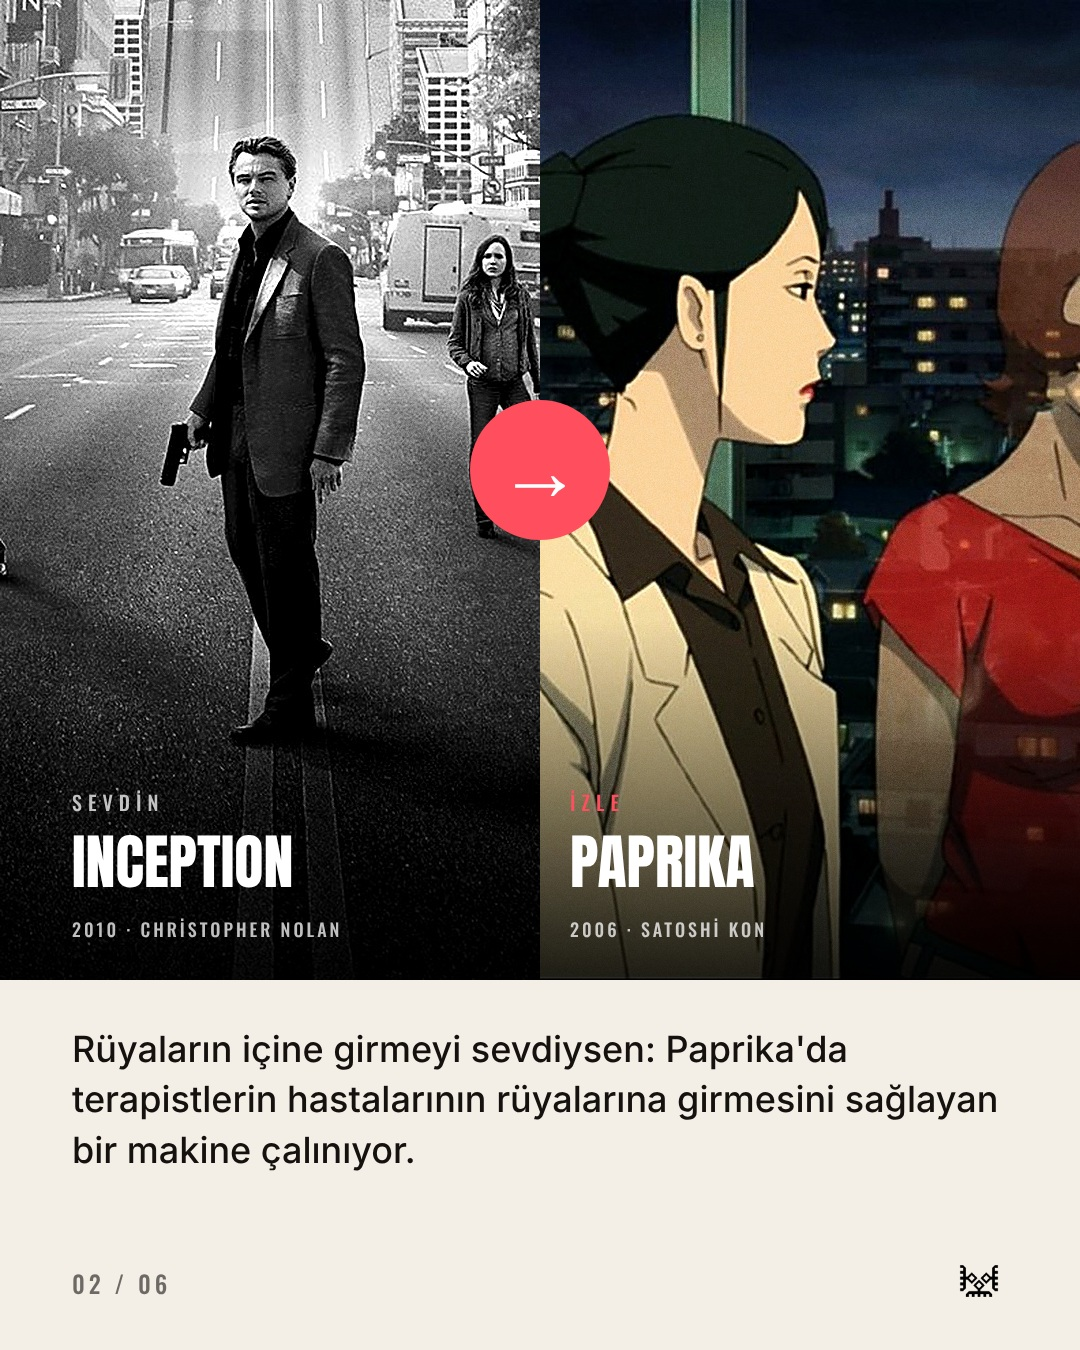
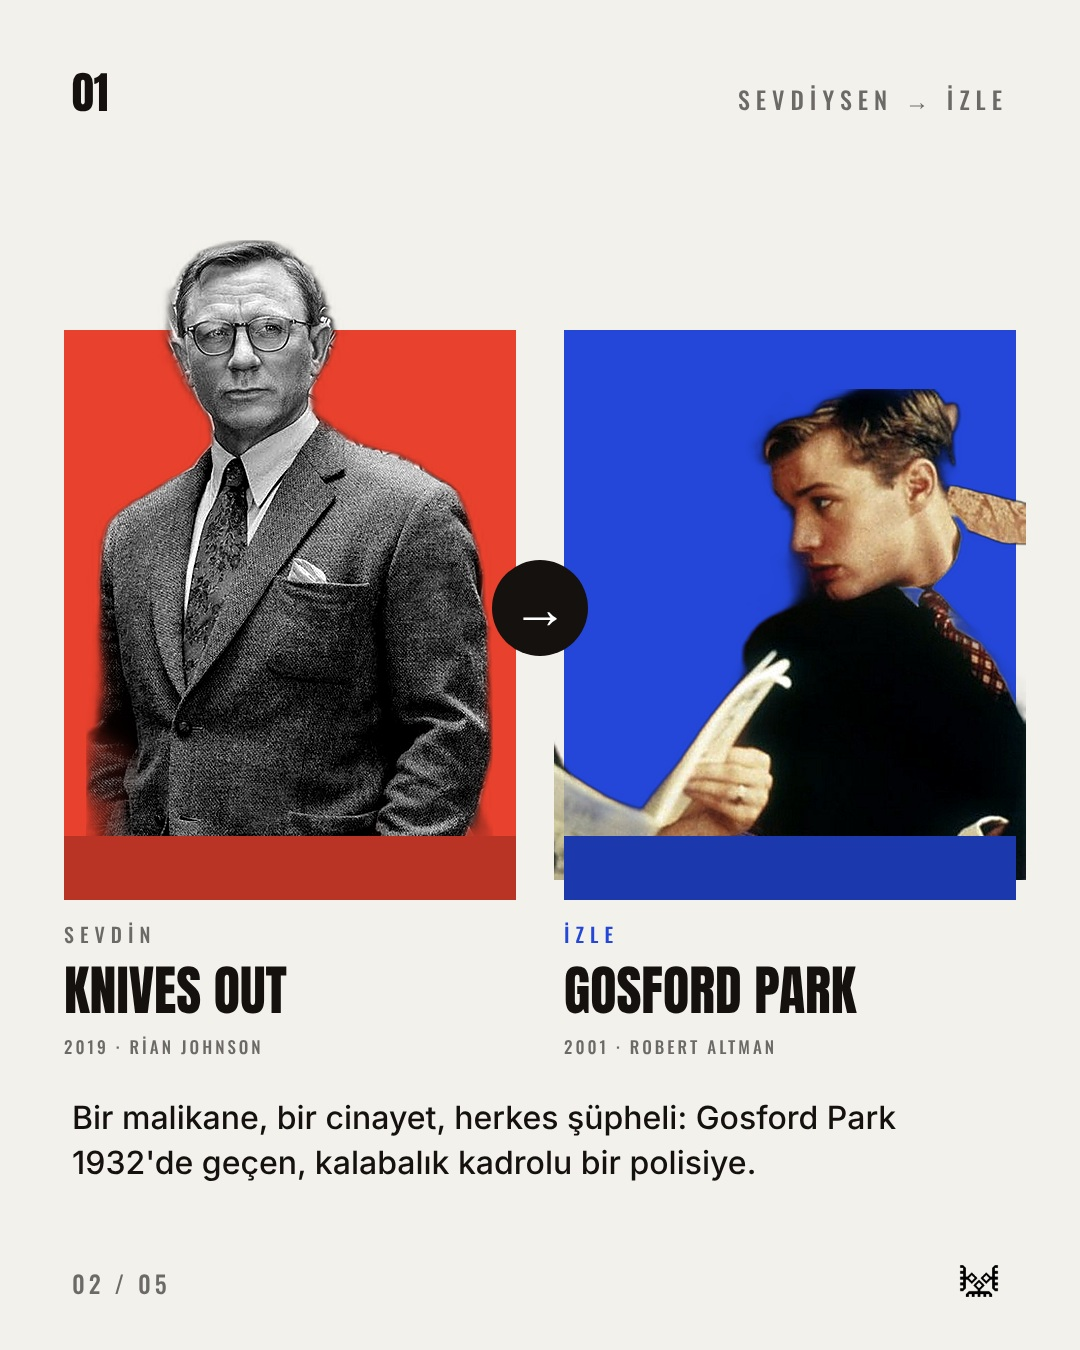
Eşleştirme ve battaniye gönderileri: kesilmiş figürlü yeni tasarım, vibe başlıklar
Claude-Session: https://claude.ai/code/session_013RjhQCyUYfSSutarfaCBa7

diff --git a/tools/week2/p04.py b/tools/week2/p04.py
@@ -1,75 +1,82 @@
 from pro import *
+import cut
 
 ID = "2026-11-01_eslestirme_bunu-sevdiysen"
-TH = theme("#f4efe6", "#14110f", "#ff4f5e", on_acc="#fff", head="anton")
+CRM, INK = "#f3f1ec", "#14110f"
+TH = theme(CRM, INK, "#ff4f5e", on_acc="#fff", head="anton")
 
-CAPTION = """Bunu sevdiysen şunu izle: aynı tadı veren 4 film çifti.
+CAPTION = """Film bitti, boşluk kaldı. Sevdiğin filmin ardından açabileceğin 3 yeni kapı.
 
-Inception'ı sevdiysen Paprika'ya, Forrest Gump'ı sevdiysen Big Fish'e, Knives Out'u sevdiysen Gosford Park'a, Parasite'i sevdiysen Shoplifters'a bak. Son çiftin ikisi de Cannes'da Altın Palmiye aldı: Shoplifters 2018'de, Parasite 2019'da.
+Knives Out'u sevdiysen Gosford Park'a, Parasite'i sevdiysen Shoplifters'a, La La Land'i sevdiysen Whiplash'e bak. Parasite ile Shoplifters Cannes'da Altın Palmiye aldı (Shoplifters 2018'de, Parasite 2019'da); La La Land ile Whiplash'in yönetmeni aynı: Damien Chazelle.
 
 Sen hangi eşleşmeyi eklerdin? "X sevdiysen Y" diye yorumlara yaz.
 
 Yarın 13:00'te: Kasım ayında sinemaya gelecek 5 film."""
 
-
 PAIRS = [
-    # A: başlık, meta, slayt karesi, kapak karesi | B: ... | sebep, etiket
-    (("INCEPTION", "2010 · Christopher Nolan", S("inception", 2), S("inception", 1)),
-     ("PAPRIKA", "2006 · Satoshi Kon", S("paprika", 2), S("paprika", 1)),
-     "Rüyaların içine girmeyi sevdiysen: Paprika'da terapistlerin hastalarının rüyalarına girmesini sağlayan bir makine çalınıyor.", "#ffd9c7"),
-    (("FORREST GUMP", "1994 · Robert Zemeckis", S("forrestgump", 3), S("forrestgump", 1)),
-     ("BIG FISH", "2003 · Tim Burton", S("bigfish", 3), S("bigfish", 1)),
-     "Hayatı masal gibi anlatan adamları sevdiysen: Big Fish'te ölüm döşeğindeki babanın hikâyelerinin ardındaki gerçeği arayan bir oğul var.", "#cfe8ff"),
-    (("KNIVES OUT", "2019 · Rian Johnson", S("knivesout", 1), S("knivesout", 2)),
-     ("GOSFORD PARK", "2001 · Robert Altman", S("gosford", 3), S("gosford", 2)),
-     "Bir malikane, bir cinayet, herkes şüpheli: Gosford Park 1932'de geçen, kalabalık kadrolu bir polisiye.", "#e5d6ff"),
-    (("PARASITE", "2019 · Bong Joon-ho", S("parasite", 2), S("parasite", 1)),
-     ("SHOPLIFTERS", "2018 · Hirokazu Kore-eda", S("shoplifters", 2), S("shoplifters", 1)),
-     "Sınıf farkını incelikle anlatan iki film: ikisi de Cannes'da Altın Palmiye aldı. Shoplifters, geçimini hırsızlıkla sağlayan bir ailenin hikâyesi.", "#cdf5dc"),
+    # A: (ad, başlık, meta, kesit)  B: ...   renk1, renk2, sebep
+    (("KNIVES OUT", "2019 · Rian Johnson", "knivesout_2"), ("GOSFORD PARK", "2001 · Robert Altman", "gosford_2"), "#e8412e", "#2447d9",
+     "Bir malikane, bir cinayet, herkes şüpheli: Gosford Park 1932'de geçen, kalabalık kadrolu bir polisiye."),
+    (("PARASITE", "2019 · Bong Joon-ho", "parasite_2"), ("SHOPLIFTERS", "2018 · Hirokazu Kore-eda", "shoplifters_3"), "#ffc933", "#0f8f6a",
+     "Sınıf farkını incelikle anlatan iki film: ikisi de Cannes'da Altın Palmiye aldı. Shoplifters, geçimini hırsızlıkla sağlayan bir ailenin hikâyesi."),
+    (("LA LA LAND", "2016 · Damien Chazelle", "lalaland_2"), ("WHIPLASH", "2014 · Damien Chazelle", "whiplash_3"), "#7a4dff", "#ff7aa8",
+     "İkisi de Damien Chazelle filmi: La La Land'in büyülü müziğinin ardından Whiplash, tutkunun bedelini bir davulcu üzerinden anlatıyor."),
 ]
 
 
+def dark(c, f=0.8):
+    c = c.lstrip("#")
+    return "#" + "".join(f"{int(int(c[k:k + 2], 16) * f):02x}" for k in (0, 2, 4))
 
 
+def wall(x, y, w, h, c):
+    return box(x, y, w, h, dark(c), z=6)
 
 
-def half(src, x, w, h, gray):
-    return img(prep(src, size=(w, h), gray=gray, contrast=1.1, sat=(1.0 if gray else 1.12), grain=8), x, 0, w, h, z=1)
+PART = {"gosford_2": (0.46, 1.0), "whiplash_3": (0.24, 0.80)}
 
 
-def split_pair(i, n):
-    a, b, why, _ = PAIRS[i]
-    ph = 980
-    return {"bg": TH["bg"], "els": [
-        half(a[2], 0, 540, ph, True), half(b[2], 540, 540, ph, False),
-        box(0, ph - 360, W, 360, "linear-gradient(180deg,rgba(0,0,0,0),rgba(0,0,0,.82))", z=2),
-        T("SEVDİN", M, ph - 190, 300, 28, 20, "oswald", "#fff", fit=False, weight=500, ls=6, op=0.75),
-        T(a[0], M, ph - 150, 440, 80, 60, "anton", "#fff", nowrap=True, mn=28, lh=1.05),
-        T(a[1], M, ph - 62, 440, 30, 18, "oswald", "#fff", weight=500, ls=3, upper=True, nowrap=True, mn=12, op=0.75),
-        T("İZLE", 570, ph - 190, 300, 28, 20, "oswald", TH["accent"], fit=False, weight=500, ls=6),
-        T(b[0], 570, ph - 150, 440, 80, 60, "anton", "#fff", nowrap=True, mn=28, lh=1.05),
-        T(b[1], 570, ph - 62, 440, 30, 18, "oswald", "#fff", weight=500, ls=3, upper=True, nowrap=True, mn=12, op=0.75),
-        box(W // 2 - 70, 400, 140, 140, TH["accent"], z=5, radius=300),
-        T("→", W // 2 - 70, 400, 140, 140, 84, "inter", "#fff", fit=False, weight=700, align="center", flex="center", lh=1.0, bleed=True, z=6),
-        T(why, M, ph + 44, W - 2 * M, 230, 36, "inter", TH["ink"], weight=500, lh=1.4, mn=26),
+def fig(name, bx, bw, bottom, max_h, gray, z, max_w=None):
+    p, w, h = cut.figure(name, max_w or bw + 40, max_h, gray=gray, contrast=(1.12 if gray else 1.04), sat=1.06, part=PART.get(name))
+    return img(p, bx + (bw - w) // 2, bottom - h, w, h, z=z, fit="contain")
+
+
+def pair_slide_n(i, n):
+    a, b, c1, c2, why = PAIRS[i]
+    by, bh, bw = 330, 570, 452
+    bx1, bx2 = 64, 564
+    return {"bg": CRM, "els": [
+        T(f"{i+1:02d}", M, 70, 200, 60, 44, "anton", INK, fit=False, lh=1.0, nowrap=True),
+        T("SEVDİYSEN → İZLE", W - M - 500, 84, 500, 34, 24, "oswald", INK, fit=False, weight=500, ls=6, align="right", nowrap=True, op=0.6),
+        box(bx1, by, bw, bh, c1, z=2), box(bx2, by, bw, bh, c2, z=2),
+        fig(a[2], bx1, bw, 880, 640, True, 4, max_w=bw + 20), fig(b[2], bx2, bw, 880, 640, False, 4, max_w=bw + 20),
+        wall(bx1, 836, bw, 64, c1), wall(bx2, 836, bw, 64, c2),
+        box(W // 2 - 48, 560, 96, 96, INK, z=9, radius=300),
+        T("→", W // 2 - 48, 560, 96, 96, 56, "inter", "#fff", fit=False, weight=700, align="center", flex="center", lh=1.0, bleed=True, z=10),
+        T("SEVDİN", bx1, 922, 300, 26, 20, "oswald", INK, fit=False, weight=500, ls=6, op=0.6),
+        T(a[0], bx1, 962, bw, 70, 54, "anton", INK, nowrap=True, mn=26, lh=1.05),
+        T(a[1], bx1, 1036, bw, 28, 17, "oswald", INK, weight=500, ls=3, upper=True, nowrap=True, mn=12, op=0.6),
+        T("İZLE", bx2, 922, 300, 26, 20, "oswald", c2 if c2 != "#ffc933" else INK, fit=False, weight=500, ls=6),
+        T(b[0], bx2, 962, bw, 70, 54, "anton", INK, nowrap=True, mn=26, lh=1.05),
+        T(b[1], bx2, 1036, bw, 28, 17, "oswald", INK, weight=500, ls=3, upper=True, nowrap=True, mn=12, op=0.6),
+        T(why, M, 1096, W - 2 * M, 140, 32, "inter", INK, weight=500, lh=1.4, mn=22),
         *footer(TH, i + 2, n),
     ]}
 
 
 def build():
-    n = 6
-    els = []
-    for k, p in enumerate(PAIRS):
-        y = k * 337
-        els.append(img(prep(p[0][3], size=(540, 337), gray=True, contrast=1.1, grain=8), 0, y, 540, 338, z=1))
-        els.append(img(prep(p[1][3], size=(540, 337), contrast=1.05, sat=1.12, grain=8), 540, y, 540, 338, z=1))
-    els += [
-        box(60, 470, 960, 410, TH["accent"], z=4),
-        T("BUNU SEVDİYSEN,<br>BUNU İZLE", 100, 500, 880, 250, 130, "anton", "#fff", nowrap=True, mn=60, lh=1.08, align="center", z=5),
-        T("SOLDAKİ SEVDİĞİN, SAĞDAKİ İZLEYECEĞİN FİLM", 100, 790, 880, 36, 22, "oswald", "#fff", weight=500, ls=4, align="center", nowrap=True, mn=14, z=5, op=0.9),
-        logo("white", W - M - 58, 64, 58, z=9),
+    n = 5
+    els = [
+        *kicker(TH, "3 eşleşme", M, 70),
+        T("FİLM BİTTİ,<br>BOŞLUK KALDI", M, 140, W - 2 * M, 340, 170, "anton", INK, nowrap=True, mn=70, lh=1.08),
     ]
-    cover = {"bg": TH["bg"], "els": els}
-    slides = [cover] + [split_pair(i, n) for i in range(4)]
+    bw, by, bh = 300, 560, 540
+    for k, p in enumerate(PAIRS):
+        bx = M + k * (bw + 18)
+        els += [box(bx, by, bw, bh, p[3], z=2), fig(p[0][2], bx, bw, 1070, 640, False, 4, max_w=bw + 20), wall(bx, 1030, bw, 70, p[3])]
+    els += [T("Sevdiğin filmin ardından açılacak 3 yeni kapı.", M, 1150, W - 2 * M - 80, 40, 30, "inter", INK, weight=500, nowrap=True, mn=20, op=0.8),
+            T("Kaydet · Sırayla izle", M, 1206, 500, 30, 22, "oswald", INK, fit=False, weight=500, ls=5, upper=True, nowrap=True, op=0.55),
+            logo("black", W - M - 58, 1252, 58, z=9)]
+    slides = [{"bg": CRM, "els": els}] + [pair_slide_n(i, n) for i in range(3)]
     slides.append(cta_slide(TH, "SEN HANGİ<br>EŞLEŞMEYİ<br>EKLERDİN?", "\"X sevdiysen Y izle\" diye yorumlara yaz.", "Kaydet · Arkadaşına gönder"))
     return {"id": ID, "caption": CAPTION, "slides": slides}

diff --git a/tools/week2/p09.py b/tools/week2/p09.py
@@ -1,9 +1,11 @@
 from pro import *
+import cut
 
 ID = "2026-11-04_liste_battaniye-filmleri"
-TH = theme("#fbeee0", "#3b2418", "#c4552d", on_acc="#fbeee0", head="serif", upper=False, acc_logo="white")
+TERRA, CREAM, GOLD = "#b04a2b", "#fbeee0", "#f2c46d"
+TH = theme(TERRA, CREAM, GOLD, on_acc=TERRA, head="serif", upper=False, logo_light="white")
 
-CAPTION = """Kasım akşamlarına battaniye gibi gelen 4 film. Gürültü yok, yıkım yok; sadece çayın yanına yakışan sıcacık hikâyeler.
+CAPTION = """Dışarısı Kasım, içerisi sinema. Battaniyeye sarılıp çayı demleyince açılacak 4 film: gürültü yok, yıkım yok, sadece sıcacık hikâyeler.
 
 About Time (2013) ailesindeki erkeklerin zamanda geriye gidebildiğini öğrenen bir gencin aşk ve aile hikâyesini, Paddington 2 (2017) hapse düşen sevimli ayının macerasını, Chef (2014) işinden ayrılıp yemek kamyonuyla yola çıkan bir şefi, Little Women (2019) March kardeşlerin büyüme hikâyesini anlatıyor. Little Women, En İyi Kostüm Tasarımı dalında Oscar aldı.
 
@@ -11,58 +13,48 @@ Bu akşam hangisini açıyorsun?
 
 Yarın 18:00'de: Tek odada geçen ama nefesini kesen 5 film."""
 
+
 FILMS = [
-    ("About Time", "2013 · Richard Curtis", "Ailesindeki erkeklerin zamanda geriye gidebildiğini öğrenen genç bir adam, bu gücü aşk için kullanır. Domhnall Gleeson ve Rachel McAdams oynuyor.", S("abouttime", 1), S("abouttime", 4), "Çay hazırla"),
-    ("Paddington 2", "2017 · Paul King", "Peru'dan gelen ayı Paddington, bir hırsızlık suçlamasıyla hapse düşer. Hugh Grant'in canlandırdığı kötü adam filme ayrı bir keyif katar.", S("paddington2", 1), S("paddington2", 2), "Aileyle izle"),
-    ("Chef", "2014 · Jon Favreau", "İşinden ayrılan şef, bir yemek kamyonuyla ülkeyi dolaşarak yemek yapma sevgisini yeniden bulur.", S("chef", 1), S("chef", 3), "Aç gitme"),
-    ("Little Women", "2019 · Greta Gerwig", "March kardeşlerin büyüme hikâyesi. Saoirse Ronan, Florence Pugh, Emma Watson ve Eliza Scanlen oynuyor; Oscar'ı En İyi Kostüm Tasarımı dalında aldı.", S("littlewomen", 1), S("littlewomen", 2), "Battaniyeye sarıl"),
+    ("About Time", "2013 · Richard Curtis", "Ailesindeki erkeklerin zamanda geriye gidebildiğini öğrenen genç bir adam, bu gücü aşk için kullanır. Domhnall Gleeson ve Rachel McAdams oynuyor.", "abouttime_1"),
+    ("Paddington 2", "2017 · Paul King", "Peru'dan gelen ayı Paddington, bir hırsızlık suçlamasıyla hapse düşer. Hugh Grant'in canlandırdığı kötü adam filme ayrı bir keyif katar.", "paddington2_2"),
+    ("Chef", "2014 · Jon Favreau", "İşinden ayrılan şef, bir yemek kamyonuyla ülkeyi dolaşarak yemek yapma sevgisini yeniden bulur.", "chef_3"),
+    ("Little Women", "2019 · Greta Gerwig", "March kardeşlerin büyüme hikâyesi. Saoirse Ronan, Florence Pugh, Emma Watson ve Eliza Scanlen oynuyor; Oscar'ı En İyi Kostüm Tasarımı dalında aldı.", "littlewomen_1"),
 ]
 
 
+def framed(name, fx, fy, fw, fh, ext=0.14):
+    d = cut.pop_frame(name, fw, fh, ext=ext)
+    return [box(fx - 16, fy - 16, fw + 32, fh + 32, "transparent", z=2, border=f"4px solid {GOLD}"),
+            img(d["frame"], fx, fy, fw, fh, z=3),
+            img(d["pop"], fx, fy - d["pop_dy"], fw, d["pop_h"], z=5, fit="contain")]
 
 
-TIMES = [("18:30", "Çay vakti"), ("20:00", "Aile saati"), ("21:30", "Akşam yemeği"), ("23:00", "Battaniye saati")]
-
-
-def warm(src, crop=(0, 0, 1, 1)):
-    return [img(grade(src, (1080, 1350), crop, grain=8), 0, 0, W, H, z=1),
-            box(0, 0, W, H, "rgba(255,150,60,.20)", z=2, blend="multiply"),
-            box(0, 0, W, H, "linear-gradient(180deg,rgba(40,16,4,.35),rgba(40,16,4,0) 35%)", z=2)]
-
-
-def eve_film(i, n):
-    title, meta, body, src, _, tag = FILMS[i]
-    t, lab = TIMES[i]
-    return {"bg": "#2a1208", "els": [
-        *warm(src),
-        T(t, M, 70, 600, 240, 210, "serif", "#fff", fit=False, lh=1.0, bleed=True, nowrap=True),
-        T(lab.upper(), M + 6, 318, 600, 34, 26, "oswald", "#fff", fit=False, weight=500, ls=8, nowrap=True),
-        logo("white", W - M - 58, 64, 58, z=9),
-        box(56, 810, 968, 430, "#fbeee0", z=4, radius=26),
-        T(title, 96, 846, 888, 100, 80, "serif", TH["ink"], nowrap=True, mn=40, lh=1.05),
-        T(meta, 96, 958, 888, 32, 24, "oswald", TH["accent"], weight=500, ls=4, upper=True, nowrap=True, mn=16),
-        T(body, 96, 1010, 888, 190, 34, "inter", TH["ink"], weight=500, lh=1.4, mn=24),
-        T(f"{i+1:02d} / 04", 96, 1272, 200, 30, 22, "oswald", "#fff", fit=False, weight=500, ls=4, op=0.8),
+def cozy_film(i, n):
+    title, meta, body, src = FILMS[i]
+    return {"bg": TERRA, "els": [
+        T(f"<i>{i+1}. {title}</i>", M, 96, W - 2 * M, 150, 104, "playfair", CREAM, weight=700, nowrap=True, mn=50, lh=1.1, align="center"),
+        *framed(src, 130, 350, 820, 540),
+        T(body, 130, 950, 820, 190, 36, "playfair", CREAM, weight=400, lh=1.45, mn=26, align="center"),
+        T(meta, 130, 1170, 820, 34, 24, "oswald", GOLD, weight=500, ls=5, upper=True, nowrap=True, mn=16, align="center"),
+        T(f"{i+1:02d} / 06", M, 1268, 260, 34, 24, "oswald", CREAM, fit=False, weight=500, ls=4, op=0.7),
+        logo("white", W - M - 58, 1252, 58, z=9),
     ]}
 
 
 def build():
     n = 6
-    cover = {"bg": "#2a1208", "els": [
-        *warm(FILMS[3][4]),
-        T("KASIM AKŞAMI PROGRAMI", M, 76, 800, 36, 26, "oswald", "#fff", fit=False, weight=500, ls=8, nowrap=True),
-        logo("white", W - M - 58, 64, 58, z=9),
-        box(56, 560, 968, 690, "#fbeee0", z=4, radius=26),
-        T("Kasım akşamlarına<br>battaniye gibi<br>gelen 4 film", 96, 596, 888, 280, 84, "serif", TH["ink"], nowrap=True, mn=44, lh=1.1),
+    cover = {"bg": TERRA, "els": [
+        *kicker(TH, "4 film · battaniye, çay, huzur", M, 70, color=GOLD, w=900),
+        T("<i>Dışarısı Kasım,<br>içerisi sinema</i>", M, 130, W - 2 * M, 330, 118, "playfair", CREAM, weight=700, nowrap=True, mn=54, lh=1.12),
+        *framed("littlewomen_2", 130, 560, 820, 520, ext=0.12),
+        T("Battaniyeye sarıl, çayı demle, birini aç.", M, 1150, W - 2 * M - 80, 40, 30, "playfair", CREAM, nowrap=True, mn=20, align="left"),
+        logo("white", W - M - 58, 1252, 58, z=9),
     ]}
-    rows = []
-    y = 930
-    for (t, lab), f in zip(TIMES, FILMS):
-        rows += [rule(96, y, 888, TH["ink"], op=0.15), T(t, 96, y + 12, 120, 40, 30, "oswald", TH["accent_txt"], fit=False, weight=500, ls=2, nowrap=True),
-                 T(f[0], 230, y + 8, 520, 44, 32, "inter", TH["ink"], weight=600, nowrap=True, mn=18),
-                 T(lab.upper(), 700, y + 16, 284, 30, 20, "oswald", TH["ink"], weight=500, ls=3, nowrap=True, align="right", mn=12, op=0.55)]
-        y += 70
-    cover["els"] += rows
-    slides = [cover] + [eve_film(i, n) for i in range(4)]
-    slides.append(cta_slide(TH, "Bu akşam<br>hangisini<br>açıyorsun?", "Yorumlara yaz, çayını da söyle.", "Kaydet · Sıcak tut"))
-    return {"id": ID, "caption": CAPTION, "slides": slides}
+    cta = {"bg": CREAM, "els": [
+        box(M, 150, 44, 4, TERRA, z=4),
+        T("<i>Bu akşam<br>hangisini<br>açıyorsun?</i>", M, 200, W - 2 * M, 560, 150, "playfair", TERRA, weight=700, nowrap=True, mn=60, lh=1.12),
+        T("Yorumlara yaz, çayını da söyle.", M, 900, W - 2 * M, 80, 46, "playfair", TERRA, weight=400, nowrap=True, mn=24),
+        T("KAYDET · SICAK TUT", M, 1050, 440, 56, 26, "oswald", CREAM, fit=False, weight=500, ls=4, nowrap=True, bg=TERRA, pad="12px 22px"),
+        logo("black", W - M - 58, 1252, 58, z=9),
+    ]}
+    return {"id": ID, "caption": CAPTION, "slides": [cover] + [cozy_film(i, n) for i in range(4)] + [cta]}

diff --git a/tools/week2/cut.py b/tools/week2/cut.py
@@ -1,0 +1,86 @@
+"""Kesilmiş (arka planı silinmiş) PNG figürler: assets/cutouts/<ad>.png (rembg ile bir kez üretilir, depoya işlenir)."""
+import hashlib, os
+from PIL import Image, ImageChops, ImageEnhance, ImageFilter
+
+HERE = os.path.dirname(os.path.abspath(__file__))
+REPO = os.path.dirname(os.path.dirname(HERE))
+CUT_DIR = os.path.join(REPO, "assets", "cutouts")
+OUT = "/tmp/fig"
+os.makedirs(CUT_DIR, exist_ok=True)
+os.makedirs(OUT, exist_ok=True)
+_sess = None
+
+
+def cutout(name):
+    """name: 'knivesout_2' (assets/stills/w_<name>.jpg) → RGBA"""
+    p = os.path.join(CUT_DIR, f"{name}.png")
+    if not os.path.exists(p):
+        global _sess
+        from rembg import remove, new_session
+        _sess = _sess or new_session("u2net")
+        src = Image.open(os.path.join(REPO, "assets", "stills", f"w_{name}.jpg")).convert("RGB")
+        remove(src, session=_sess).save(p)
+    return Image.open(p).convert("RGBA")
+
+
+def _bbox(im, thr=70):
+    a = im.split()[3].point(lambda v: 255 if v > thr else 0)
+    return a.getbbox()
+
+
+def _tone(im, gray=False, contrast=1.0, sat=1.0, warm=0.0):
+    rgb, a = im.convert("RGB"), im.split()[3]
+    if gray:
+        rgb = rgb.convert("L").convert("RGB")
+    if contrast != 1.0:
+        rgb = ImageEnhance.Contrast(rgb).enhance(contrast)
+    if sat != 1.0 and not gray:
+        rgb = ImageEnhance.Color(rgb).enhance(sat)
+    if warm:
+        rgb = Image.blend(rgb, ImageChops.multiply(rgb, Image.new("RGB", rgb.size, (255, 226, 190))), warm)
+    out = rgb.convert("RGBA")
+    out.putalpha(a)
+    return out
+
+
+def figure(name, max_w, max_h, gray=False, contrast=1.05, sat=1.05, bottom_trim=0.0, part=None):
+    """Figürü sınırlarına kırp, kutuya sığdır. Döner: (yol, w, h)."""
+    im = cutout(name)
+    x0, y0, x1, y1 = _bbox(im)
+    y1 = int(y1 - (y1 - y0) * bottom_trim)
+    im = im.crop((x0, y0, x1, y1))
+    if part:
+        im = im.crop((int(im.width * part[0]), 0, int(im.width * part[1]), im.height))
+    s = min(max_w / im.width, max_h / im.height)
+    w, h = int(im.width * s), int(im.height * s)
+    im = im.resize((w, h), Image.LANCZOS).filter(ImageFilter.UnsharpMask(1.2, 80, 2))
+    im = _tone(im, gray, contrast, sat)
+    key = hashlib.md5(repr((name, max_w, max_h, gray, contrast, sat, bottom_trim, part)).encode()).hexdigest()[:10]
+    p = os.path.join(OUT, f"fig_{name}_{key}.png")
+    im.save(p)
+    return p, w, h
+
+
+def pop_frame(name, fw, fh, ext=0.14, warm=0.18, center=None):
+    """Çerçeve içindeki fotoğraf + çerçeve üstüne taşan figür.
+    Döner: dict(frame=jpg yolu, pop=png yolu, pop_dy=çerçeve üstüne taşma (px, pozitif), pop_h)"""
+    src = Image.open(os.path.join(REPO, "assets", "stills", f"w_{name}.jpg")).convert("RGB")
+    cut = cutout(name)
+    x0, y0, x1, y1 = _bbox(cut)
+    bh = y1 - y0
+    top = y0 + int(bh * ext)                       # çerçeve penceresi başlangıcı: kafa biraz kesilir
+    wh = min(src.height - top, int(src.width / (fw / fh)))
+    ww = int(wh * fw / fh)
+    cx = center if center is not None else (x0 + x1) // 2
+    wx0 = max(0, min(src.width - ww, cx - ww // 2))
+    box_ = (wx0, top, wx0 + ww, top + wh)
+    s = fw / ww
+    frame = src.crop(box_).resize((fw, fh), Image.LANCZOS)
+    frame = Image.blend(frame, ImageChops.multiply(frame, Image.new("RGB", frame.size, (255, 226, 190))), warm)
+    pop_src = cut.crop((wx0, y0, wx0 + ww, top + wh))
+    pop = _tone(pop_src.resize((fw, int(pop_src.height * s)), Image.LANCZOS), warm=warm)
+    key = hashlib.md5(repr((name, fw, fh, ext, warm, center)).encode()).hexdigest()[:10]
+    fp, pp = os.path.join(OUT, f"frm_{name}_{key}.jpg"), os.path.join(OUT, f"pop_{name}_{key}.png")
+    frame.save(fp, quality=94)
+    pop.save(pp)
+    return {"frame": fp, "pop": pp, "pop_dy": int((top - y0) * s), "pop_h": pop.height}
